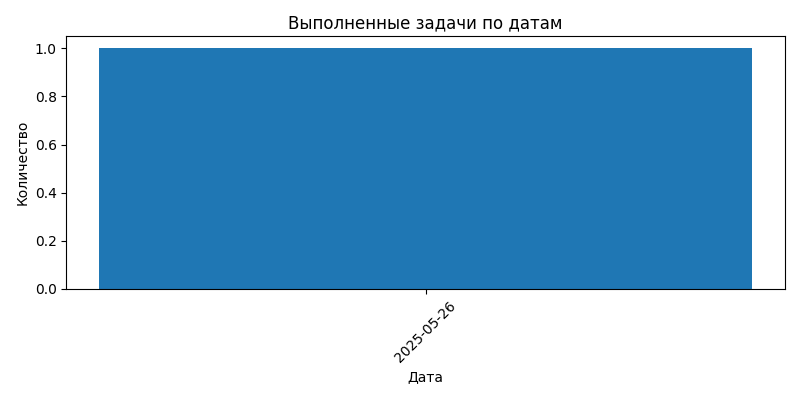
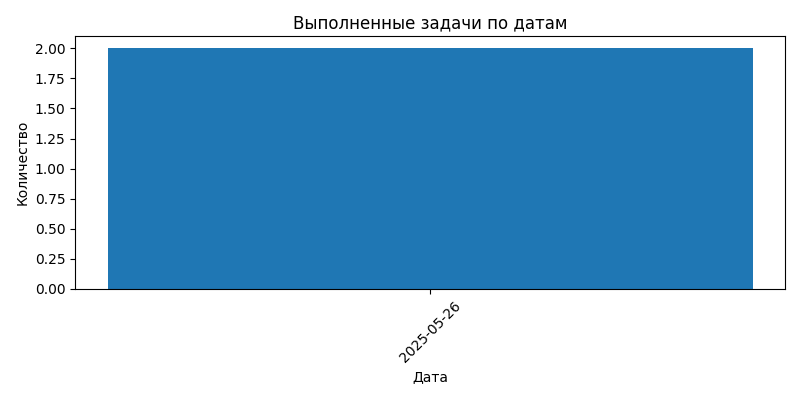
bot date

diff --git a/handlers/handlers.py b/handlers/handlers.py
@@ -51,7 +51,6 @@ async def start_handler(message: Message):
     finally:
         session.close()
 
-
 # Меню
 @dp.message(Command("menu"))
 async def show_menu(message: Message):
@@ -100,7 +99,11 @@ async def assign_task_text_input(message: Message, state: FSMContext):
             await message.answer("❌ Пользователь с таким user_id не найден.")
             return
 
-        task = Task(description=task_text, assigned_to_user_id=user_id)
+        task = Task(
+            description=task_text,
+            assigned_to_user_id=user_id,
+            created_at=datetime.now(kz_tz)  # Бишкек убактысы
+        )
         if file_id:
             task.document_file_id = file_id
 
@@ -143,18 +146,15 @@ async def done_get_task_id(message: Message, state: FSMContext):
                 await message.answer("❌ Задание не найдено или не относится к вам.")
                 return
 
-            # Бишкек убактысы
             task.status = 'done'
-            task.done_at = datetime.now(kz_tz)
+            task.done_at = datetime.now(kz_tz)  # Бишкек убактысы
 
-            # ✅ full_name генерациясы
             full_name = f"{message.from_user.first_name or ''} {message.from_user.last_name or ''}".strip()
-
             report = Report(
                 task_id=task.task_id,
                 user_id=message.from_user.id,
                 report_text=f"Пользователь {full_name} завершил задание.",
-                created_at=datetime.now(kz_tz)
+                created_at=datetime.now(kz_tz)  # Бишкек убактысы
             )
             session.add(report)
             session.commit()
@@ -178,7 +178,8 @@ async def mytasks_handler(message: Message):
         else:
             text = "📋 Ваши задания:\n"
             for t in tasks:
-                text += f"ID: {t.task_id}, Статус: {t.status}, Текст: {t.description}\n"
+                created_at = t.created_at.astimezone(kz_tz).strftime("%Y-%m-%d %H:%M:%S") if t.created_at else "Не указано"
+                text += f"ID: {t.task_id}, Статус: {t.status}, Текст: {t.description}, Назначено: {created_at}\n"
             await message.answer(text)
     finally:
         session.close()
@@ -227,7 +228,7 @@ async def report_handler(message: Message):
         sheet.title = "Отчёты"
 
         headers = [
-            "ID задания", "Имя пользователя", "ID пользователя", "Текст задания",
+            "ID задания", "ID пользователя", "Имя пользователя", "Текст задания",
             "Статус", "Дата выполнения", "Дата назначения"
         ]
         sheet.append(headers)

diff --git a/config.py b/config.py
@@ -1,0 +1,1 @@
+API_TOKEN = '7731573922:AAGucZItfX4mmiL8fYPei3ocza47SwwUrls'
